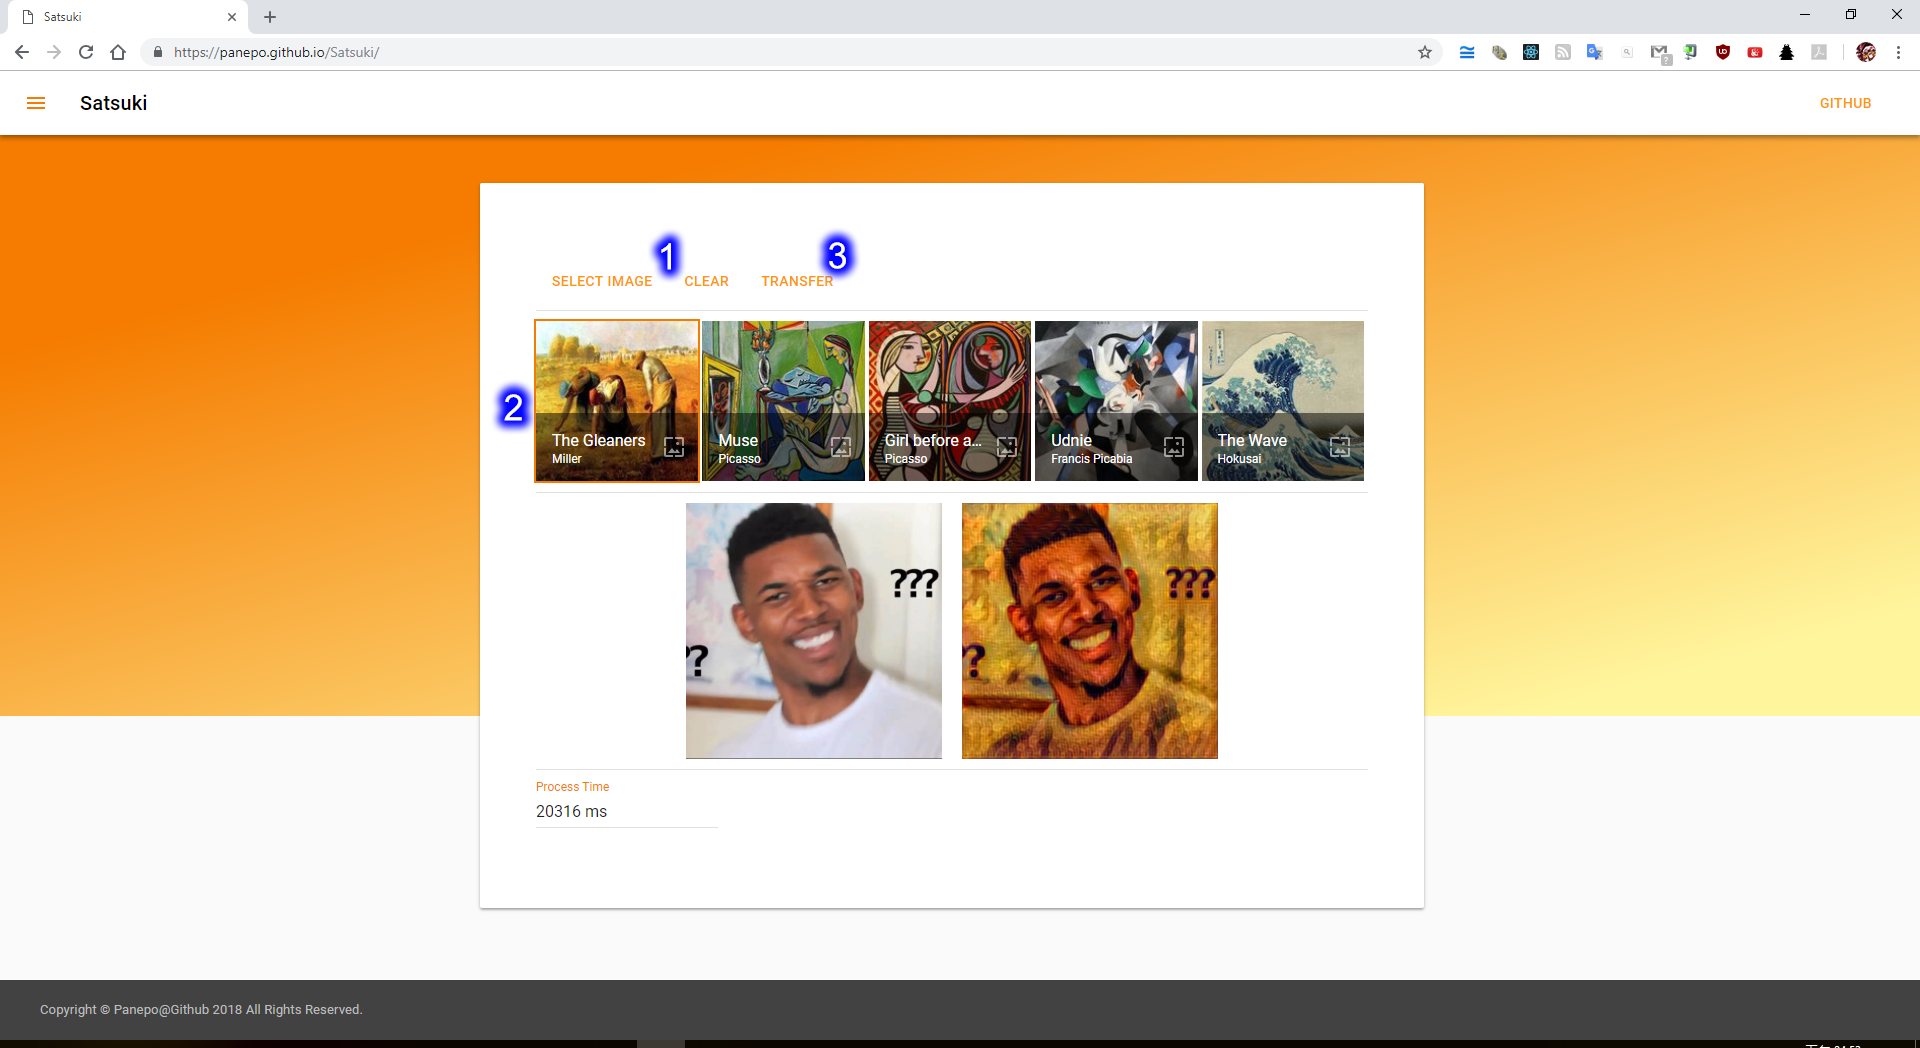
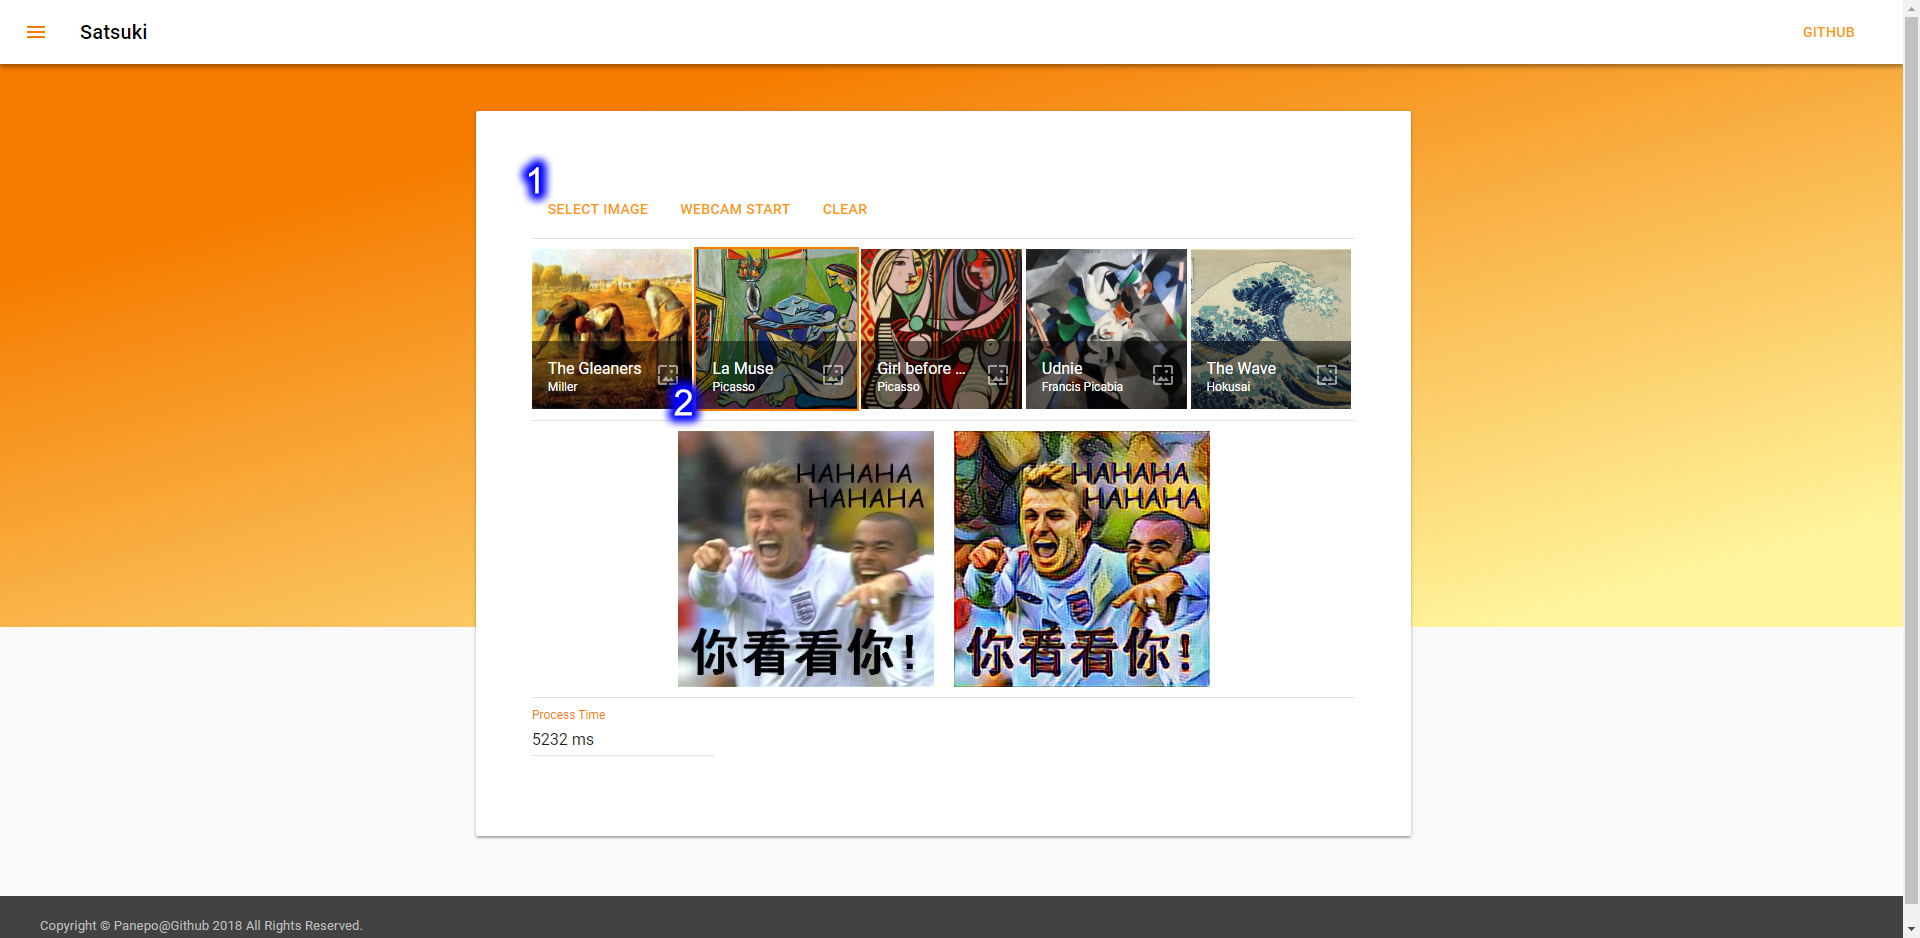
update readme
update readme

diff --git a/README.md b/README.md
@@ -31,10 +31,9 @@ First visit this [page](https://panepo.github.io/Satsuki/) and follow these step
 
 ![usage](https://github.com/Panepo/Satsuki/blob/master/doc/usage.png)
 
-1. Upload the images
+1. Upload the images or capture an image from camera
    (note that the image will resize to 256x256 to fit neural network input.)
 2. Choice one of the styles
-2. Click transfer
 
 ## Results
 
